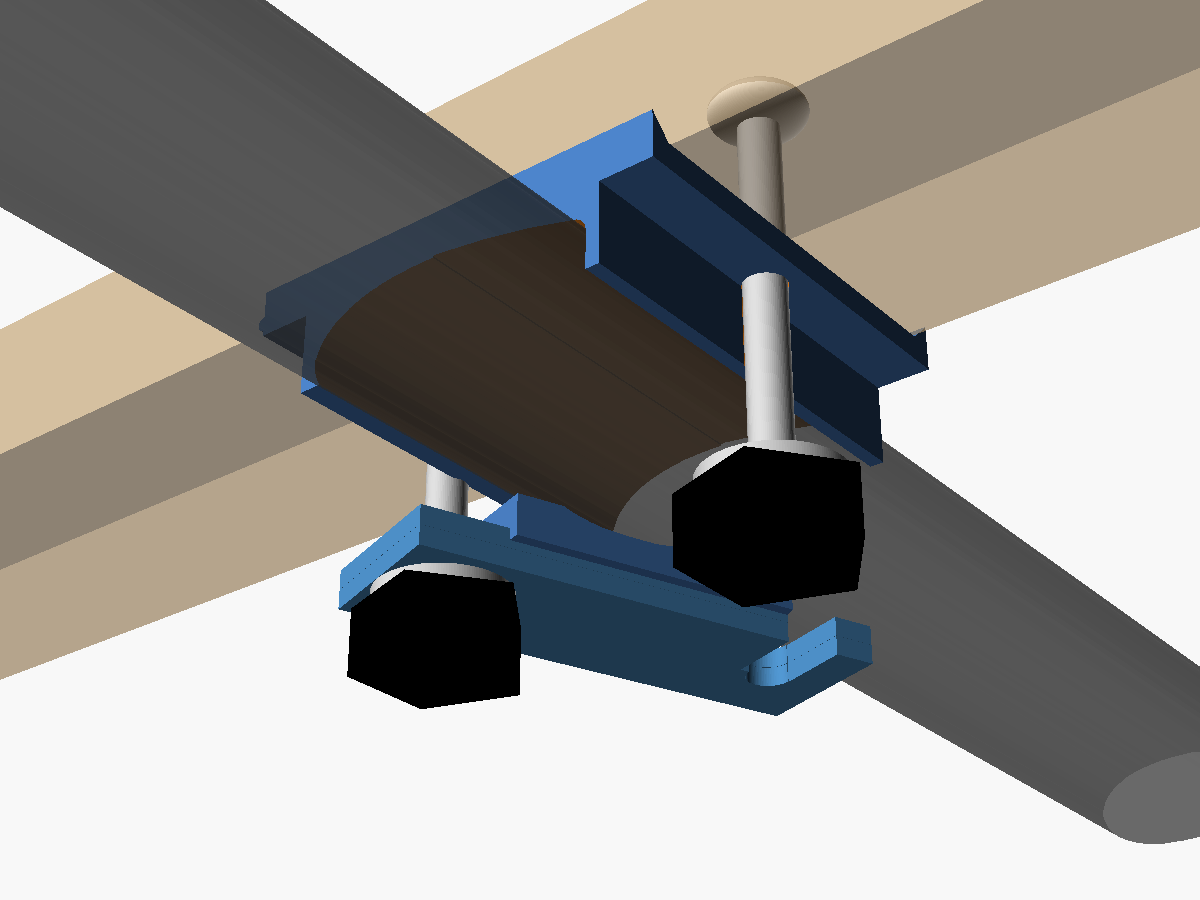
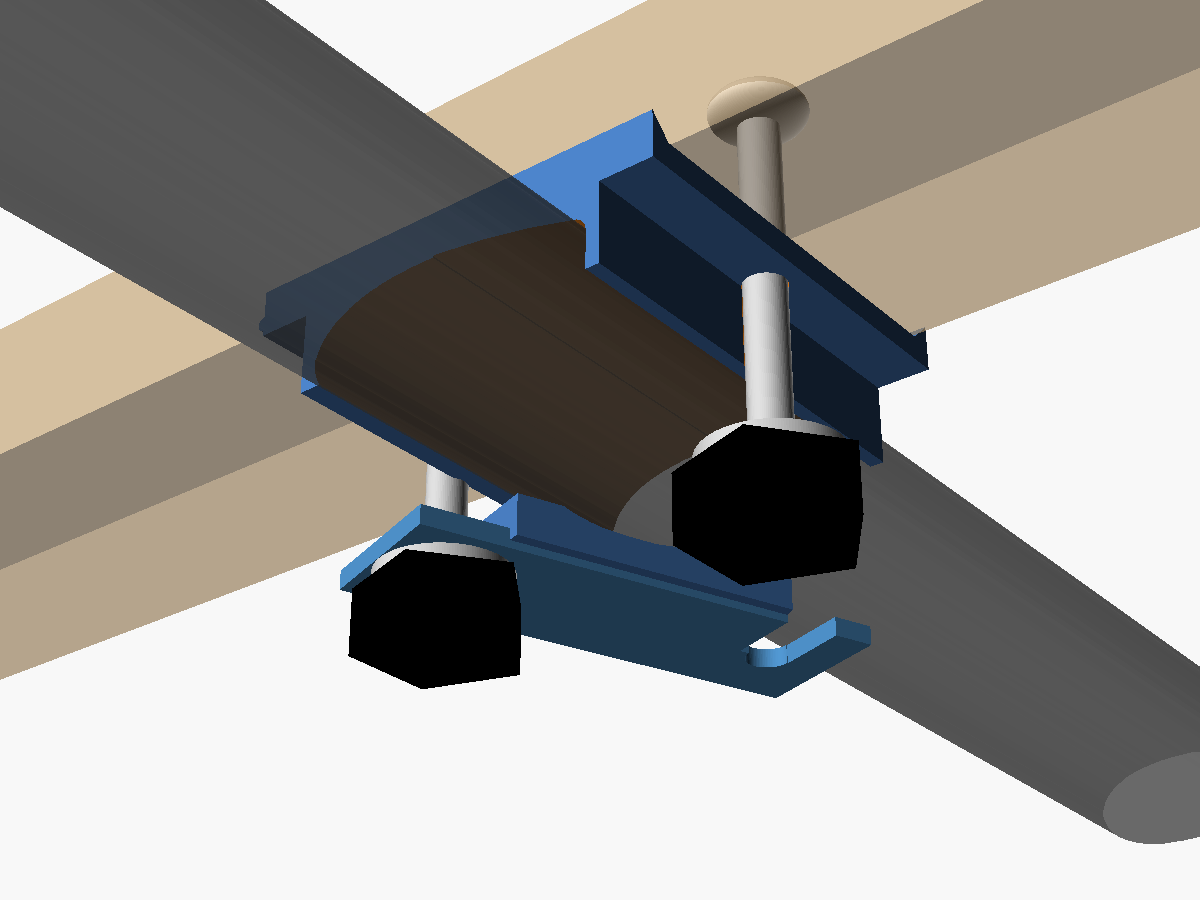
Use a single 3/16 in plate, tightened snug rather than cranked
One layer stays straight up to roughly 1.4 kN of pull per bolt, which is
still far more clamp than the rack needs: the bolts and saddle locate the
board, and only sliding along the bar is left to friction. Past that the
plate takes a bow rather than letting go. The README now says to snug the
knobs, how to check a plate for bow, and how to go thicker if it does.

It also gives the 4 in bolts room again: 14 mm of thread stays in the
knob when it is backed off to swing, instead of 9.4 mm.

diff --git a/README.md b/README.md
@@ -77,7 +77,7 @@ anything comes to the bolt is 0.8 mm.
 | 2 | 3/8"-16 x 4" **carriage bolt**, zinc or stainless | 4-1/2" gives more margin; see "Choosing bolts" below. |
 | 2 | 3/8"-16 **through-hole hand knob** (five-star or T) | Through-hole, not blind, so the bolt can pass. A steel-hub knob takes more torque than an all-plastic one. |
 | 2 | 3/8" x 1-1/4" **fender washer** | Wide enough to bridge the notch in the plate. |
-| — | 3/16" x 1-1/2" **steel flat bar**, two 4-11/16" pieces per bracket | Eight pieces for the rack, 37-1/2" plus saw kerfs, so buy a 48" stick. A single 1/4" plate per bracket works too; see "Making the plates". |
+| — | 3/16" x 1-1/2" **steel flat bar**, 4-11/16" per bracket | One 36" stick makes all four plates with room to spare. Thicker is stronger; see "Making the plates". |
 | 1 | Printed **saddle** | |
 | 1 | Printed **pad** | |
 | — | Flexible adhesive | Shoe Goo, E6000 or contact cement, to bond the pad to the plate. |
@@ -85,8 +85,8 @@ anything comes to the bolt is 0.8 mm.
 **Knobs and vibration.** A hand-tight knob will not hold as much preload as a
 wrenched lock nut, so check the knobs before every trip and after the first
 twenty miles with a load. If one keeps working loose, put a split lock washer
-under that knob, or use a steel wing nut instead: still no tools, and you can
-lean on it harder. Knobs also make the rack easy to steal. One keyed or
+under that knob rather than tightening harder — see "Snug, don't crank"
+below. Knobs also make the rack easy to steal. One keyed or
 security nut per board fixes that.
 
 ### For the rack
@@ -108,29 +108,38 @@ Render `part = "plate_template"`, export it as SVG, print it at **100%
 scale**, and check the 50 mm bar on it with a ruler. A copy is in
 `stl/plate_template.svg` for the default settings.
 
-Each plate is **two layers of 3/16" flat bar**, stacked. The plate is
-loaded like a beam — the knobs pull its ends up and the bar pushes its
-middle down — and bending strength goes with the square of the thickness, so a
-single 3/16" layer sees nearly twice the stress of a 1/4" plate and bends
-under a firm hand on the knobs. Two loose layers are slightly stronger than
-one 1/4" plate. Epoxied together they act as one 3/8" plate, about twice as
-strong again, which is worth doing. If you have 1/4" stock, set
-`plate_ply = 6.35` and `plate_layers = 1`.
-
-1. Cut two 4-11/16" (119 mm) pieces of flat bar per plate and square the
-   ends.
-2. Clamp each pair together, edges flush, and treat it as one piece from
-   here on so the holes and notch line up.
-3. Glue the template on, centre-punch both crosshairs, and drill **7/16"**
-   through both layers.
-4. At the notched end, hacksaw the two straight lines from the hole out to
+1. Cut 4-11/16" (119 mm) of 3/16" flat bar per plate and square the ends.
+2. Clamp it down, glue the template on, centre-punch both crosshairs, and
+   drill **7/16"**.
+3. At the notched end, hacksaw the two straight lines from the hole out to
    the edge and snap or file out the waste. The notch is about 9/16"
    (14 mm) wide, and is deliberately off-centre on the hole, toward the
    pivot.
-5. Break every edge with a file. Optionally epoxy the two layers together
-   (JB Weld or similar, on clean, sanded faces), then paint or zinc-spray
-   the plate.
-6. Bond the printed pad onto the plate, in its channel, curved face up.
+4. Break every edge with a file, then paint or zinc-spray the plate.
+5. Bond the printed pad onto the plate, in its channel, curved face up.
+
+### Snug, don't crank
+
+The plate is loaded like a beam: the knobs pull its ends up and the bar
+pushes its middle down. A single 3/16" plate stays straight up to roughly
+1.4 kN (300 lbf) of pull per bolt — snug on a star knob, then a little
+more. Leaning on the knobs with both hands goes past that, and the plate
+takes a permanent bow around the bar. Nothing lets go when that happens,
+since the plate is still captive on both bolts, but a bowed plate holds less
+clamp and the knobs work loose sooner.
+
+That lighter clamp is plenty. The bolts either side of the bar stop the
+board sliding fore-and-aft and the saddle wraps the bar; only sliding
+along the bar is left to friction, and four brackets clamping even that
+lightly give well over 1000 lbf of it.
+
+After the first few trips, take a plate off and lay a straightedge across
+it. If it has started to bow, tighten more gently, or go thicker: bending
+strength goes with the square of the thickness, so 1/4" plate takes about
+1.8 times the load, and two 3/16" layers stacked (`plate_layers = 2`)
+slightly more than that — twice as much again if the layers are epoxied
+together. Thicker plates need more bolt; the model will say if yours is
+too short.
 
 ## Printing
 
@@ -235,19 +244,15 @@ best, and that is now the default.
 
 Two numbers matter.
 
-1. **Length** — the knob sits **3.47" below the head**, and it has to keep
+1. **Length** — the knob sits **3.29" below the head**, and it has to keep
    enough thread to hold when it is backed off 3 turns to swing the plate.
-   **4"** is the default and the shortest bolt that works: it leaves 13 mm
-   of thread in the knob when clamped and 9.4 mm when backed off, against
-   the 8.4 mm of a standard nut. That is only about 1 mm spare, so a
-   swollen board or a thick coat of paint can use it up. The model assumes
-   a 3 mm washer; most fender washers are 1.5–2 mm, so measure yours and
-   set `washer_t` to get that back. **4-1/2"** bolts give plenty of room,
-   at the cost of the tip hanging 1.7" below the bar instead of 1.2" —
-   check it clears the roof, especially near the edges where the roof
-   curves down.
+   **4"** is the default: it leaves 18 mm of thread in the knob when
+   clamped and 14 mm when backed off, against the 8.4 mm of a standard
+   nut, which is room for paint or a swollen board. The tip hangs 1.2"
+   below the bar; check it clears the roof, especially near the edges
+   where the roof curves down. Longer bolts only add to that.
 2. **Thread length** — the knob has to be able to run up to the plate, so
-   the thread must start less than 3.47" below the head. Carriage bolts in
+   the thread must start less than 3.29" below the head. Carriage bolts in
    these lengths are usually threaded 1-1/2" or more, which is plenty.
 
 Set `bolt_len` and `bolt_thread` in the `.scad` to whatever you are holding.
